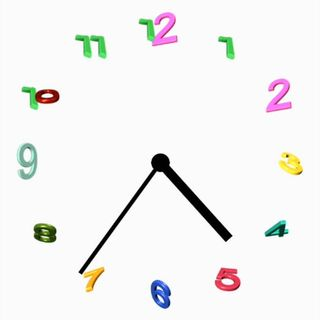
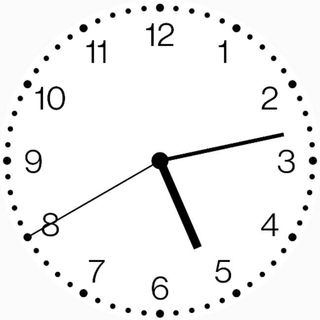
edit README.md

diff --git a/example/lib/example_customize.dart b/example/lib/example_customize.dart
@@ -2,49 +2,49 @@ import 'package:flutter/material.dart';
 import 'package:flutter_analog_clock/flutter_analog_clock.dart';
 
 void main() => runApp(MaterialApp(
-      home: Scaffold(
-        appBar: AppBar(
-          title: const Text('FlutterAnalogClock'),
-        ),
-        body: Center(
-          child: AnalogClock(
-            dateTime: DateTime.now(),
-            isKeepTime: true,
-            dialColor: Colors.white,
-            dialBorderColor: Colors.black,
-            dialBorderWidthFactor: 0.02,
-            markingColor: Colors.black,
-            markingRadiusFactor: 1.0,
-            markingWidthFactor: 1.0,
-            hourNumberColor: Colors.black,
-            hourNumbers: const [
-              '',
-              '',
-              '3',
-              '',
-              '',
-              '6',
-              '',
-              '',
-              '9',
-              '',
-              '',
-              '12'
-            ],
-            hourNumberSizeFactor: 1.0,
-            hourNumberRadiusFactor: 1.0,
-            hourHandColor: Colors.black,
-            hourHandWidthFactor: 1.0,
-            hourHandLengthFactor: 1.0,
-            minuteHandColor: Colors.black,
-            minuteHandWidthFactor: 1.0,
-            minuteHandLengthFactor: 1.0,
-            secondHandColor: Colors.black,
-            secondHandWidthFactor: 1.0,
-            secondHandLengthFactor: 1.0,
-            centerPointColor: Colors.black,
-            centerPointWidthFactor: 1.0,
-          ),
-        ),
+  home: Scaffold(
+    appBar: AppBar(
+      title: const Text('FlutterAnalogClock'),
+    ),
+    body: Center(
+      child: AnalogClock(
+        dateTime: DateTime.now(),
+        isKeepTime: true,
+        dialColor: Colors.white,
+        dialBorderColor: Colors.black,
+        dialBorderWidthFactor: 0.02,
+        markingColor: Colors.black,
+        markingRadiusFactor: 1.0,
+        markingWidthFactor: 1.0,
+        hourNumberColor: Colors.black,
+        hourNumbers: const [
+          '',
+          '',
+          '3',
+          '',
+          '',
+          '6',
+          '',
+          '',
+          '9',
+          '',
+          '',
+          '12'
+        ],
+        hourNumberSizeFactor: 1.0,
+        hourNumberRadiusFactor: 1.0,
+        hourHandColor: Colors.black,
+        hourHandWidthFactor: 1.0,
+        hourHandLengthFactor: 1.0,
+        minuteHandColor: Colors.black,
+        minuteHandWidthFactor: 1.0,
+        minuteHandLengthFactor: 1.0,
+        secondHandColor: Colors.black,
+        secondHandWidthFactor: 1.0,
+        secondHandLengthFactor: 1.0,
+        centerPointColor: Colors.black,
+        centerPointWidthFactor: 1.0,
       ),
-    ));
+    ),
+  ),
+));

diff --git a/example/lib/example_image.dart b/example/lib/example_image.dart
@@ -2,25 +2,25 @@ import 'package:flutter/material.dart';
 import 'package:flutter_analog_clock/flutter_analog_clock.dart';
 
 void main() => runApp(MaterialApp(
-      home: Scaffold(
-        appBar: AppBar(
-          title: const Text('FlutterAnalogClock'),
+  home: Scaffold(
+    appBar: AppBar(
+      title: const Text('FlutterAnalogClock'),
+    ),
+    body: Center(
+      child: Container(
+        alignment: Alignment.center,
+        decoration: const BoxDecoration(
+          image: DecorationImage(image: AssetImage('assets/dial02.webp')),
         ),
-        body: Center(
-          child: Container(
-            alignment: Alignment.center,
-            decoration: const BoxDecoration(
-              image: DecorationImage(image: AssetImage('assets/dial02.webp')),
-            ),
-            child: AnalogClock(
-              dateTime: DateTime(2022,12,17,17,43,7),
-              isKeepTime: false,
-              dialColor: null,
-              markingColor: null,
-              hourNumberColor: null,
-              hourHandLengthFactor: 0.8,
-            ),
-          ),
+        child: AnalogClock(
+          dateTime: DateTime(2022,12,17,17,43,7),
+          isKeepTime: false,
+          dialColor: null,
+          markingColor: null,
+          hourNumberColor: null,
+          hourHandLengthFactor: 0.8,
         ),
       ),
-    ));
+    ),
+  ),
+));

diff --git a/example/lib/example_dark.dart b/example/lib/example_dark.dart
@@ -2,10 +2,10 @@ import 'package:flutter/material.dart';
 import 'package:flutter_analog_clock/flutter_analog_clock.dart';
 
 void main() => runApp(MaterialApp(
-      home: Scaffold(
-        appBar: AppBar(
-          title: const Text('FlutterAnalogClock'),
-        ),
-        body: const AnalogClock(),
-      ),
-    ));
+  home: Scaffold(
+    appBar: AppBar(
+      title: const Text('FlutterAnalogClock'),
+    ),
+    body: const Center(child: AnalogClock.dark()),
+  ),
+));

diff --git a/example/lib/example_simple.dart b/example/lib/example_simple.dart
@@ -2,10 +2,10 @@ import 'package:flutter/material.dart';
 import 'package:flutter_analog_clock/flutter_analog_clock.dart';
 
 void main() => runApp(MaterialApp(
-      home: Scaffold(
-        appBar: AppBar(
-          title: const Text('FlutterAnalogClock'),
-        ),
-        body: const AnalogClock(),
-      ),
-    ));
+  home: Scaffold(
+    appBar: AppBar(
+      title: const Text('FlutterAnalogClock'),
+    ),
+    body: const Center(child: AnalogClock()),
+  ),
+));

diff --git a/example/lib/example_specify_time.dart b/example/lib/example_specify_time.dart
@@ -2,8 +2,8 @@ import 'package:flutter/material.dart';
 import 'package:flutter_analog_clock/flutter_analog_clock.dart';
 
 void main() => runApp(const MaterialApp(
-      home: ExampleSpecifyTime(),
-    ));
+  home: ExampleSpecifyTime(),
+));
 
 class ExampleSpecifyTime extends StatefulWidget {
   const ExampleSpecifyTime({Key? key}) : super(key: key);

diff --git a/README.md b/README.md
@@ -23,16 +23,32 @@ import 'package:flutter_analog_clock/flutter_analog_clock.dart';
 ## Usage
 
 ### 1. Simple to use
+![dial01.webp](screenshots/screenshots01.jpg)
 ```dart
   const AnalogClock()
 ```
-or
+![dial02.webp](screenshots/screenshots02.jpg)
 ```dart
   const AnalogClock.dark()
 ```
 
+### 2. Use an image as a clock face
+![dial01.webp](screenshots/screenshots03.jpg)![dial02.webp](screenshots/screenshots04.jpg)
+```dart
+  Container(
+    decoration: const BoxDecoration(
+      image: DecorationImage(image: AssetImage('assets/dial01.webp')),
+    ),
+    child: const AnalogClock(
+      dialColor: null,
+      markingColor: null,
+      hourNumberColor: null,
+      secondHandColor: null,
+    ),
+  ),
+```
 
-### 2. Customize to use
+### 3. Customize to use
 ```dart
   AnalogClock(
     dateTime: DateTime.now(),
@@ -61,7 +77,7 @@ or
   )
 ```
 
-### 3. Specify a time
+### 4. Specify a time
 ```dart
 class ExampleSpecifyTime extends StatefulWidget {
   const ExampleSpecifyTime({Key? key}) : super(key: key);
@@ -102,18 +118,3 @@ class _ExampleSpecifyTimeState extends State<ExampleSpecifyTime> {
 }
 ```
 
-### 4. Use an image as a clock face
-![dial01.webp](screenshots/screenshots01.jpg)![dial02.webp](screenshots/screenshots02.jpg)
-```dart
-  Container(
-    decoration: const BoxDecoration(
-      image: DecorationImage(image: AssetImage('assets/dial01.webp')),
-    ),
-    child: const AnalogClock(
-      dialColor: null,
-      markingColor: null,
-      hourNumberColor: null,
-      secondHandColor: null,
-    ),
-  ),
-```
